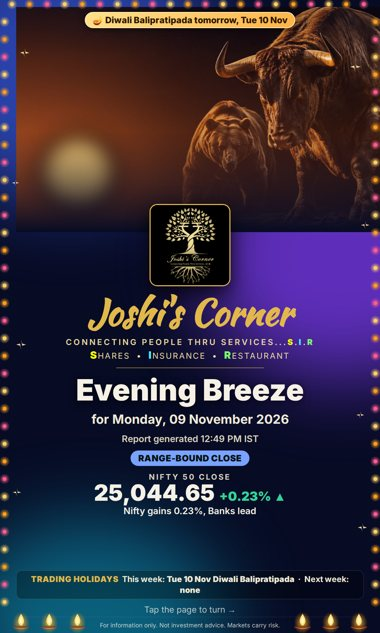
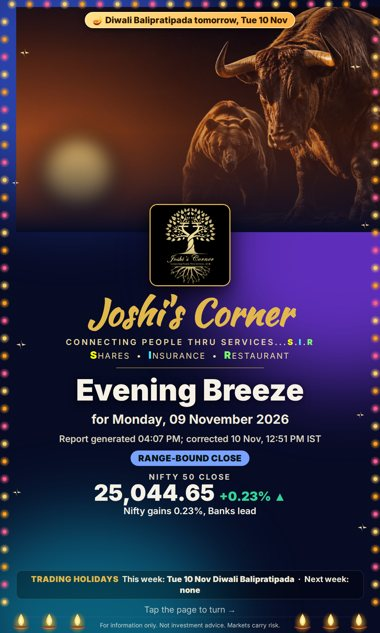
reissue: corrected Evening Breeze

Changed region(s): [[0.1447, 0.6603, 0.8395, 0.7204]]

diff --git a/evening/2026-11-09/index.html b/evening/2026-11-09/index.html
@@ -41,7 +41,7 @@ html,body{height:100%;background:radial-gradient(120% 90% at 50% 0%,#2a2140 0%,#
 <div class="top"><span class="b">Joshi's Corner</span><span class="lg"><button data-l="en">English</button><button data-l="hi">हिन्दी</button><button data-l="bn">বাংলা</button></span></div>
 <div class="stage"><div class="book" id="book"><div class="spine"></div><div class="leaf"><img src="../../reports/evening-breeze/JCGG_Evening_Breeze_Mobile_2026-11-09_1.png" alt="Page 1" loading="eager"><div class="back"></div><div class="shade"></div></div><div class="leaf"><img src="../../reports/evening-breeze/JCGG_Evening_Breeze_Mobile_2026-11-09_2.png" alt="Page 2" loading="eager"><div class="back"></div><div class="shade"></div></div><div class="leaf"><img src="../../reports/evening-breeze/JCGG_Evening_Breeze_Mobile_2026-11-09_3.png" alt="Page 3" loading="eager"><div class="back"></div><div class="shade"></div></div><div class="leaf"><img src="../../reports/evening-breeze/JCGG_Evening_Breeze_Mobile_2026-11-09_4.png" alt="Page 4" loading="eager"><div class="back"></div><div class="shade"></div></div><div class="leaf"><img src="../../reports/evening-breeze/JCGG_Evening_Breeze_Mobile_2026-11-09_5.png" alt="Page 5" loading="eager"><div class="back"></div><div class="shade"></div></div><div class="leaf"><img src="../../reports/evening-breeze/JCGG_Evening_Breeze_Mobile_2026-11-09_6.png" alt="Page 6" loading="eager"><div class="back"></div><div class="shade"></div></div><div class="leaf"><img src="../../reports/evening-breeze/JCGG_Evening_Breeze_Mobile_2026-11-09_7.png" alt="Page 7" loading="eager"><div class="back"></div><div class="shade"></div></div><div class="leaf"><img src="../../reports/evening-breeze/JCGG_Evening_Breeze_Mobile_2026-11-09_8.png" alt="Page 8" loading="eager"><div class="back"></div><div class="shade"></div></div></div></div>
 <div class="hint" id="hint">Tap the page to turn it</div>
-<div class="stat"><div class="old" id="old"></div><span id="gen">Report generated <b>Tue 10 Nov 2026, 12:49 PM IST</b></span></div>
+<div class="stat"><div class="old" id="old"></div><span id="gen">Report generated <b>Tue 10 Nov 2026, 12:51 PM IST</b></span></div>
 <div class="bar"><button class="g" id="prev" aria-label="Previous page">&#8249;</button><div class="dots" id="dots"></div><button id="next" aria-label="Next page">Next page &#8250;</button><button class="g" id="share">Share</button></div>
 <script>(function(){
 var LP={"en": ["../../reports/evening-breeze/JCGG_Evening_Breeze_Mobile_2026-11-09_1.png", "../../reports/evening-breeze/JCGG_Evening_Breeze_Mobile_2026-11-09_2.png", "../../reports/evening-breeze/JCGG_Evening_Breeze_Mobile_2026-11-09_3.png", "../../reports/evening-breeze/JCGG_Evening_Breeze_Mobile_2026-11-09_4.png", "../../reports/evening-breeze/JCGG_Evening_Breeze_Mobile_2026-11-09_5.png", "../../reports/evening-breeze/JCGG_Evening_Breeze_Mobile_2026-11-09_6.png", "../../reports/evening-breeze/JCGG_Evening_Breeze_Mobile_2026-11-09_7.png", "../../reports/evening-breeze/JCGG_Evening_Breeze_Mobile_2026-11-09_8.png"], "hi": ["../../reports/evening-breeze/JCGG_Evening_Breeze_Mobile_HI_2026-11-09_1.png", "../../reports/evening-breeze/JCGG_Evening_Breeze_Mobile_HI_2026-11-09_2.png", "../../reports/evening-breeze/JCGG_Evening_Breeze_Mobile_HI_2026-11-09_3.png", "../../reports/evening-breeze/JCGG_Evening_Breeze_Mobile_HI_2026-11-09_4.png", "../../reports/evening-breeze/JCGG_Evening_Breeze_Mobile_HI_2026-11-09_5.png", "../../reports/evening-breeze/JCGG_Evening_Breeze_Mobile_HI_2026-11-09_6.png", "../../reports/evening-breeze/JCGG_Evening_Breeze_Mobile_HI_2026-11-09_7.png", "../../reports/evening-breeze/JCGG_Evening_Breeze_Mobile_HI_2026-11-09_8.png"], "bn": ["../../reports/evening-breeze/JCGG_Evening_Breeze_Mobile_BN_2026-11-09_1.png", "../../reports/evening-breeze/JCGG_Evening_Breeze_Mobile_BN_2026-11-09_2.png", "../../reports/evening-breeze/JCGG_Evening_Breeze_Mobile_BN_2026-11-09_3.png", "../../reports/evening-breeze/JCGG_Evening_Breeze_Mobile_BN_2026-11-09_4.png", "../../reports/evening-breeze/JCGG_Evening_Breeze_Mobile_BN_2026-11-09_5.png", "../../reports/evening-breeze/JCGG_Evening_Breeze_Mobile_BN_2026-11-09_6.png", "../../reports/evening-breeze/JCGG_Evening_Breeze_Mobile_BN_2026-11-09_7.png", "../../reports/evening-breeze/JCGG_Evening_Breeze_Mobile_BN_2026-11-09_8.png"]},DEF=document.documentElement.lang||'en',cur='en';
@@ -82,7 +82,7 @@ document.addEventListener('keydown',function(e){if(e.key==='ArrowRight'||e.key==
 var sx=null;document.addEventListener('touchstart',function(e){sx=e.touches[0].clientX},{passive:true});
 document.addEventListener('touchend',function(e){if(sx===null)return;var dx=e.changedTouches[0].clientX-sx;if(Math.abs(dx)>45)go(dx<0?1:-1);sx=null},{passive:true});
 document.getElementById('share').onclick=function(){var d={title:"Joshi's Corner - Evening Breeze for Monday, 09 November 2026",text:"Joshi's Corner - Evening Breeze for Monday, 09 November 2026",url:location.href};if(navigator.share){navigator.share(d).catch(function(){})}else if(navigator.clipboard){navigator.clipboard.writeText(location.href);this.textContent='Link copied'}};
-(function(){var RD='2026-11-09',KIND='evening',ADM='',GEN='Tue 10 Nov 2026, 12:49 PM IST';
+(function(){var RD='2026-11-09',KIND='evening',ADM='',GEN='Tue 10 Nov 2026, 12:51 PM IST';
  var n=new Date(Date.now()+19800000),mm=n.getUTCHours()*60+n.getUTCMinutes(),dow=n.getUTCDay(),due=KIND==='evening'?16*60+40:8*60+55;
  function iso(d){return d.toISOString().slice(0,10)}
  var e=new Date(n.getTime());if(dow>=1&&dow<=5&&mm>=due){}else{do{e=new Date(e.getTime()-86400000)}while(e.getUTCDay()===0||e.getUTCDay()===6)}

diff --git a/evening/index.html b/evening/index.html
@@ -41,7 +41,7 @@ html,body{height:100%;background:radial-gradient(120% 90% at 50% 0%,#2a2140 0%,#
 <div class="top"><span class="b">Joshi's Corner</span><span class="lg"><button data-l="en">English</button><button data-l="hi">हिन्दी</button><button data-l="bn">বাংলা</button></span></div>
 <div class="stage"><div class="book" id="book"><div class="spine"></div><div class="leaf"><img src="../reports/evening-breeze/JCGG_Evening_Breeze_Mobile_2026-11-09_1.png" alt="Page 1" loading="eager"><div class="back"></div><div class="shade"></div></div><div class="leaf"><img src="../reports/evening-breeze/JCGG_Evening_Breeze_Mobile_2026-11-09_2.png" alt="Page 2" loading="eager"><div class="back"></div><div class="shade"></div></div><div class="leaf"><img src="../reports/evening-breeze/JCGG_Evening_Breeze_Mobile_2026-11-09_3.png" alt="Page 3" loading="eager"><div class="back"></div><div class="shade"></div></div><div class="leaf"><img src="../reports/evening-breeze/JCGG_Evening_Breeze_Mobile_2026-11-09_4.png" alt="Page 4" loading="eager"><div class="back"></div><div class="shade"></div></div><div class="leaf"><img src="../reports/evening-breeze/JCGG_Evening_Breeze_Mobile_2026-11-09_5.png" alt="Page 5" loading="eager"><div class="back"></div><div class="shade"></div></div><div class="leaf"><img src="../reports/evening-breeze/JCGG_Evening_Breeze_Mobile_2026-11-09_6.png" alt="Page 6" loading="eager"><div class="back"></div><div class="shade"></div></div><div class="leaf"><img src="../reports/evening-breeze/JCGG_Evening_Breeze_Mobile_2026-11-09_7.png" alt="Page 7" loading="eager"><div class="back"></div><div class="shade"></div></div><div class="leaf"><img src="../reports/evening-breeze/JCGG_Evening_Breeze_Mobile_2026-11-09_8.png" alt="Page 8" loading="eager"><div class="back"></div><div class="shade"></div></div></div></div>
 <div class="hint" id="hint">Tap the page to turn it</div>
-<div class="stat"><div class="old" id="old"></div><span id="gen">Report generated <b>Tue 10 Nov 2026, 12:49 PM IST</b></span></div>
+<div class="stat"><div class="old" id="old"></div><span id="gen">Report generated <b>Tue 10 Nov 2026, 12:51 PM IST</b></span></div>
 <div class="bar"><button class="g" id="prev" aria-label="Previous page">&#8249;</button><div class="dots" id="dots"></div><button id="next" aria-label="Next page">Next page &#8250;</button><button class="g" id="share">Share</button></div>
 <script>(function(){
 var LP={"en": ["../reports/evening-breeze/JCGG_Evening_Breeze_Mobile_2026-11-09_1.png", "../reports/evening-breeze/JCGG_Evening_Breeze_Mobile_2026-11-09_2.png", "../reports/evening-breeze/JCGG_Evening_Breeze_Mobile_2026-11-09_3.png", "../reports/evening-breeze/JCGG_Evening_Breeze_Mobile_2026-11-09_4.png", "../reports/evening-breeze/JCGG_Evening_Breeze_Mobile_2026-11-09_5.png", "../reports/evening-breeze/JCGG_Evening_Breeze_Mobile_2026-11-09_6.png", "../reports/evening-breeze/JCGG_Evening_Breeze_Mobile_2026-11-09_7.png", "../reports/evening-breeze/JCGG_Evening_Breeze_Mobile_2026-11-09_8.png"], "hi": ["../reports/evening-breeze/JCGG_Evening_Breeze_Mobile_HI_2026-11-09_1.png", "../reports/evening-breeze/JCGG_Evening_Breeze_Mobile_HI_2026-11-09_2.png", "../reports/evening-breeze/JCGG_Evening_Breeze_Mobile_HI_2026-11-09_3.png", "../reports/evening-breeze/JCGG_Evening_Breeze_Mobile_HI_2026-11-09_4.png", "../reports/evening-breeze/JCGG_Evening_Breeze_Mobile_HI_2026-11-09_5.png", "../reports/evening-breeze/JCGG_Evening_Breeze_Mobile_HI_2026-11-09_6.png", "../reports/evening-breeze/JCGG_Evening_Breeze_Mobile_HI_2026-11-09_7.png", "../reports/evening-breeze/JCGG_Evening_Breeze_Mobile_HI_2026-11-09_8.png"], "bn": ["../reports/evening-breeze/JCGG_Evening_Breeze_Mobile_BN_2026-11-09_1.png", "../reports/evening-breeze/JCGG_Evening_Breeze_Mobile_BN_2026-11-09_2.png", "../reports/evening-breeze/JCGG_Evening_Breeze_Mobile_BN_2026-11-09_3.png", "../reports/evening-breeze/JCGG_Evening_Breeze_Mobile_BN_2026-11-09_4.png", "../reports/evening-breeze/JCGG_Evening_Breeze_Mobile_BN_2026-11-09_5.png", "../reports/evening-breeze/JCGG_Evening_Breeze_Mobile_BN_2026-11-09_6.png", "../reports/evening-breeze/JCGG_Evening_Breeze_Mobile_BN_2026-11-09_7.png", "../reports/evening-breeze/JCGG_Evening_Breeze_Mobile_BN_2026-11-09_8.png"]},DEF=document.documentElement.lang||'en',cur='en';
@@ -82,7 +82,7 @@ document.addEventListener('keydown',function(e){if(e.key==='ArrowRight'||e.key==
 var sx=null;document.addEventListener('touchstart',function(e){sx=e.touches[0].clientX},{passive:true});
 document.addEventListener('touchend',function(e){if(sx===null)return;var dx=e.changedTouches[0].clientX-sx;if(Math.abs(dx)>45)go(dx<0?1:-1);sx=null},{passive:true});
 document.getElementById('share').onclick=function(){var d={title:"Joshi's Corner - Evening Breeze for Monday, 09 November 2026",text:"Joshi's Corner - Evening Breeze for Monday, 09 November 2026",url:location.href};if(navigator.share){navigator.share(d).catch(function(){})}else if(navigator.clipboard){navigator.clipboard.writeText(location.href);this.textContent='Link copied'}};
-(function(){var RD='2026-11-09',KIND='evening',ADM='',GEN='Tue 10 Nov 2026, 12:49 PM IST';
+(function(){var RD='2026-11-09',KIND='evening',ADM='',GEN='Tue 10 Nov 2026, 12:51 PM IST';
  var n=new Date(Date.now()+19800000),mm=n.getUTCHours()*60+n.getUTCMinutes(),dow=n.getUTCDay(),due=KIND==='evening'?16*60+40:8*60+55;
  function iso(d){return d.toISOString().slice(0,10)}
  var e=new Date(n.getTime());if(dow>=1&&dow<=5&&mm>=due){}else{do{e=new Date(e.getTime()-86400000)}while(e.getUTCDay()===0||e.getUTCDay()===6)}

diff --git a/updates/index.html b/updates/index.html
@@ -25,4 +25,4 @@ https://ssjs1mu.github.io/jc-stock-analyst/muhurat/
 Published: Sun 8 Nov, 12:19 PM IST
 
 All reports in one place: https://tinyurl.com/JoshisCorner-Reports</div><div class="act"><a class="wa" href="https://wa.me/?text=Joshi%27s%20Corner%20-%20daily%20reports%20%28Mon-Fri%2C%20NSE%20trading%20days%29%0A%0A%F0%9F%8C%85%20Morning%20Sunrise%20-%20ready%20by%208%3A45%20AM%20IST%20on%20every%20trading%20day%0Ahttps%3A//ssjs1mu.github.io/jc-stock-analyst/morning/%0ALatest%3A%20Mon%209%20Nov%2C%208%3A57%20AM%20IST%0A%0A%F0%9F%8C%87%20Evening%20Breeze%20-%20ready%20by%204%3A30%20PM%20IST%20on%20every%20trading%20day%0Ahttps%3A//ssjs1mu.github.io/jc-stock-analyst/evening/%0ALatest%3A%20Mon%209%20Nov%2C%204%3A08%20PM%20IST%0A%0A%F0%9F%AA%94%20Muhurat%20Trading%202026%20%28special%29%20-%20special%20edition%2C%20English%20/%20Hindi%20/%20Bengali%0Ahttps%3A//ssjs1mu.github.io/jc-stock-analyst/muhurat/%0APublished%3A%20Sun%208%20Nov%2C%2012%3A19%20PM%20IST%0A%0AAll%20reports%20in%20one%20place%3A%20https%3A//tinyurl.com/JoshisCorner-Reports" target="_blank" rel="noopener">Share on WhatsApp</a><button class="cp" onclick="navigator.clipboard.writeText(document.getElementById('msg').innerText).then(function(){this.textContent='Copied'}.bind(this))">Copy message</button></div>
-<p class="sub" style="margin-top:18px;font-size:12.5px">Updated Tue 10 Nov, 12:49 PM IST. Not investment advice.</p></div><script src="https://ssjs1mu.github.io/jc-stock-analyst/analytics.js?v=2" defer></script></body></html>
+<p class="sub" style="margin-top:18px;font-size:12.5px">Updated Tue 10 Nov, 12:51 PM IST. Not investment advice.</p></div><script src="https://ssjs1mu.github.io/jc-stock-analyst/analytics.js?v=2" defer></script></body></html>
